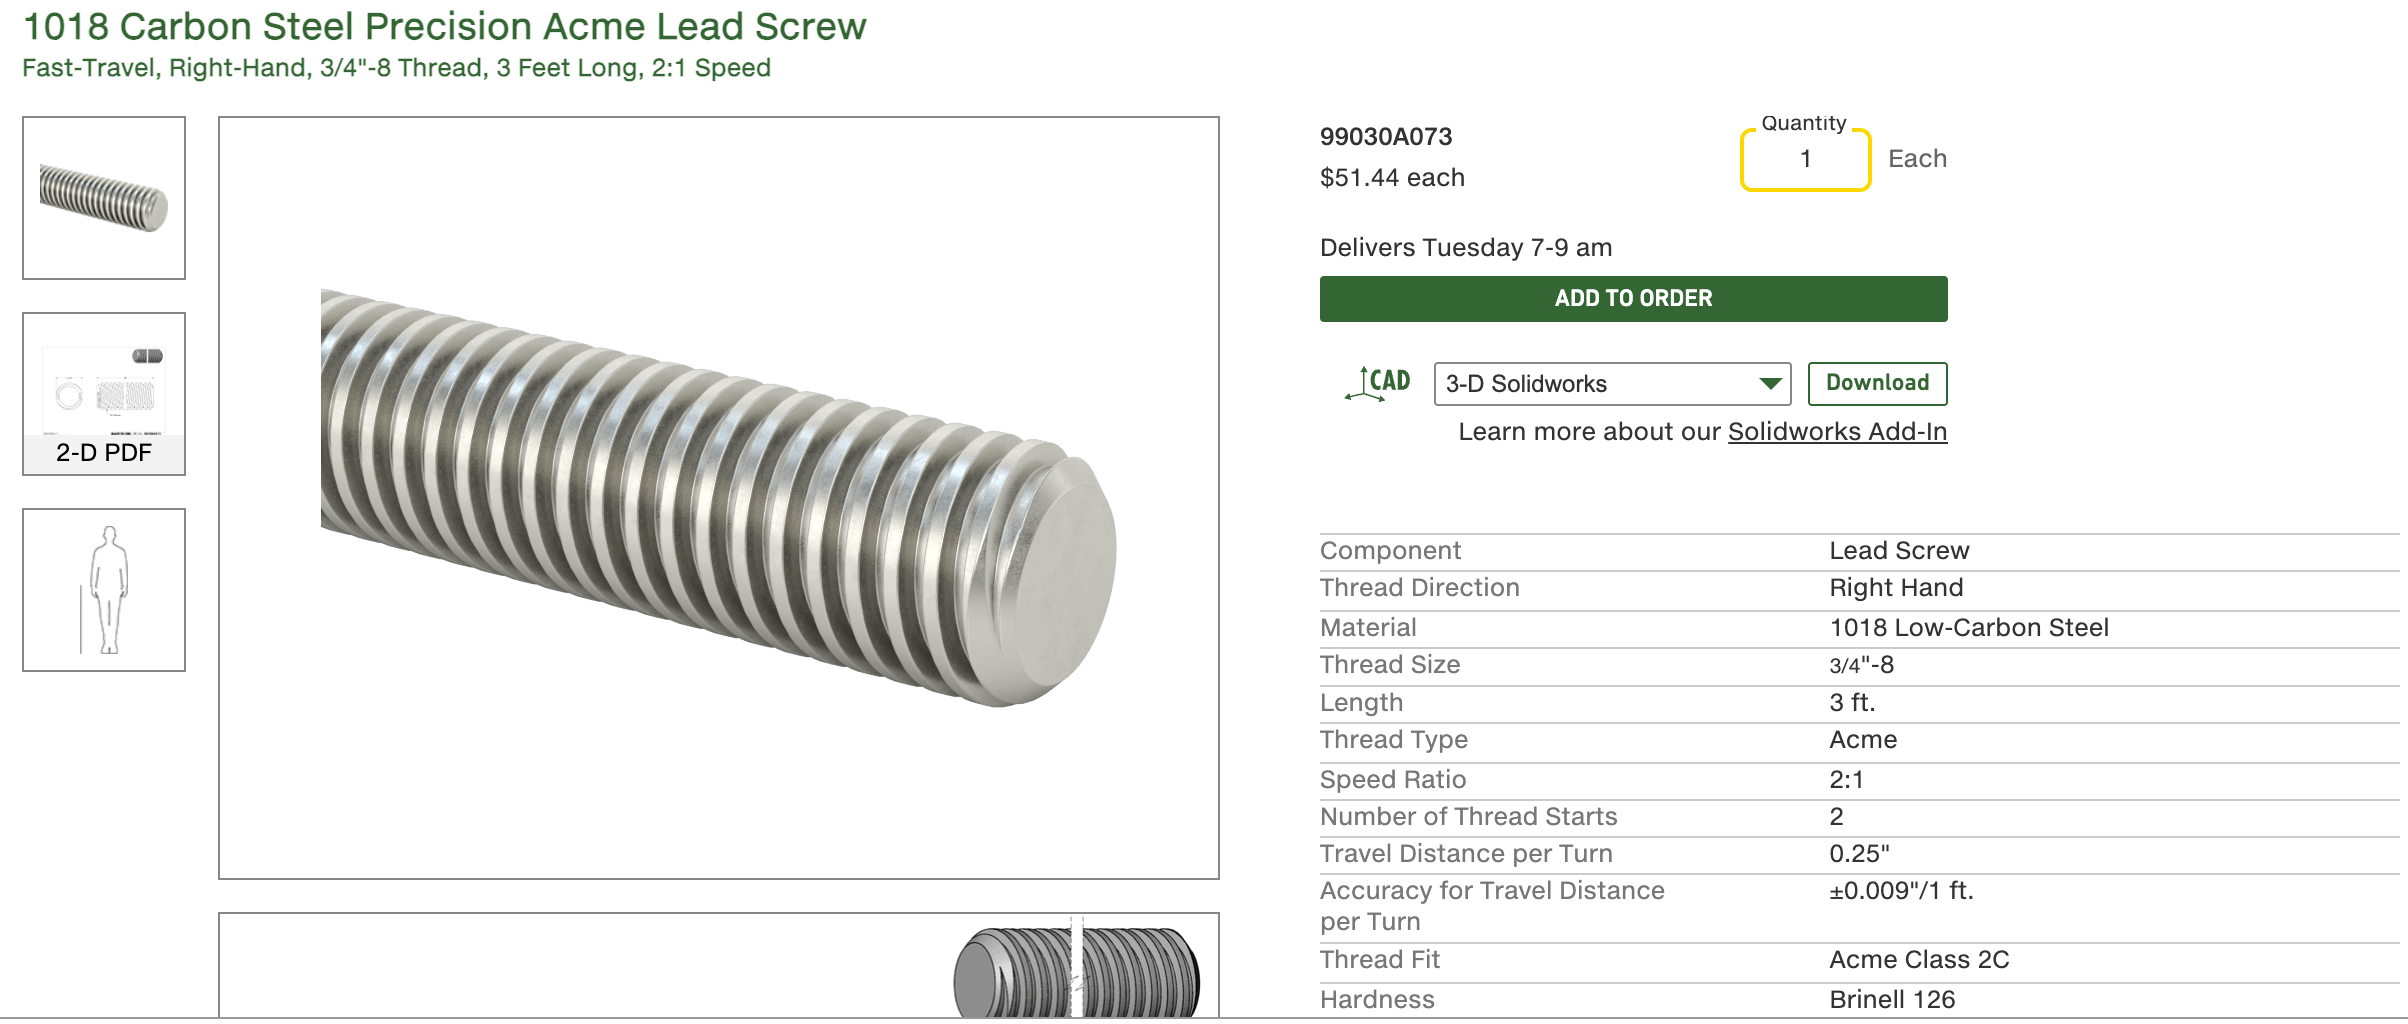
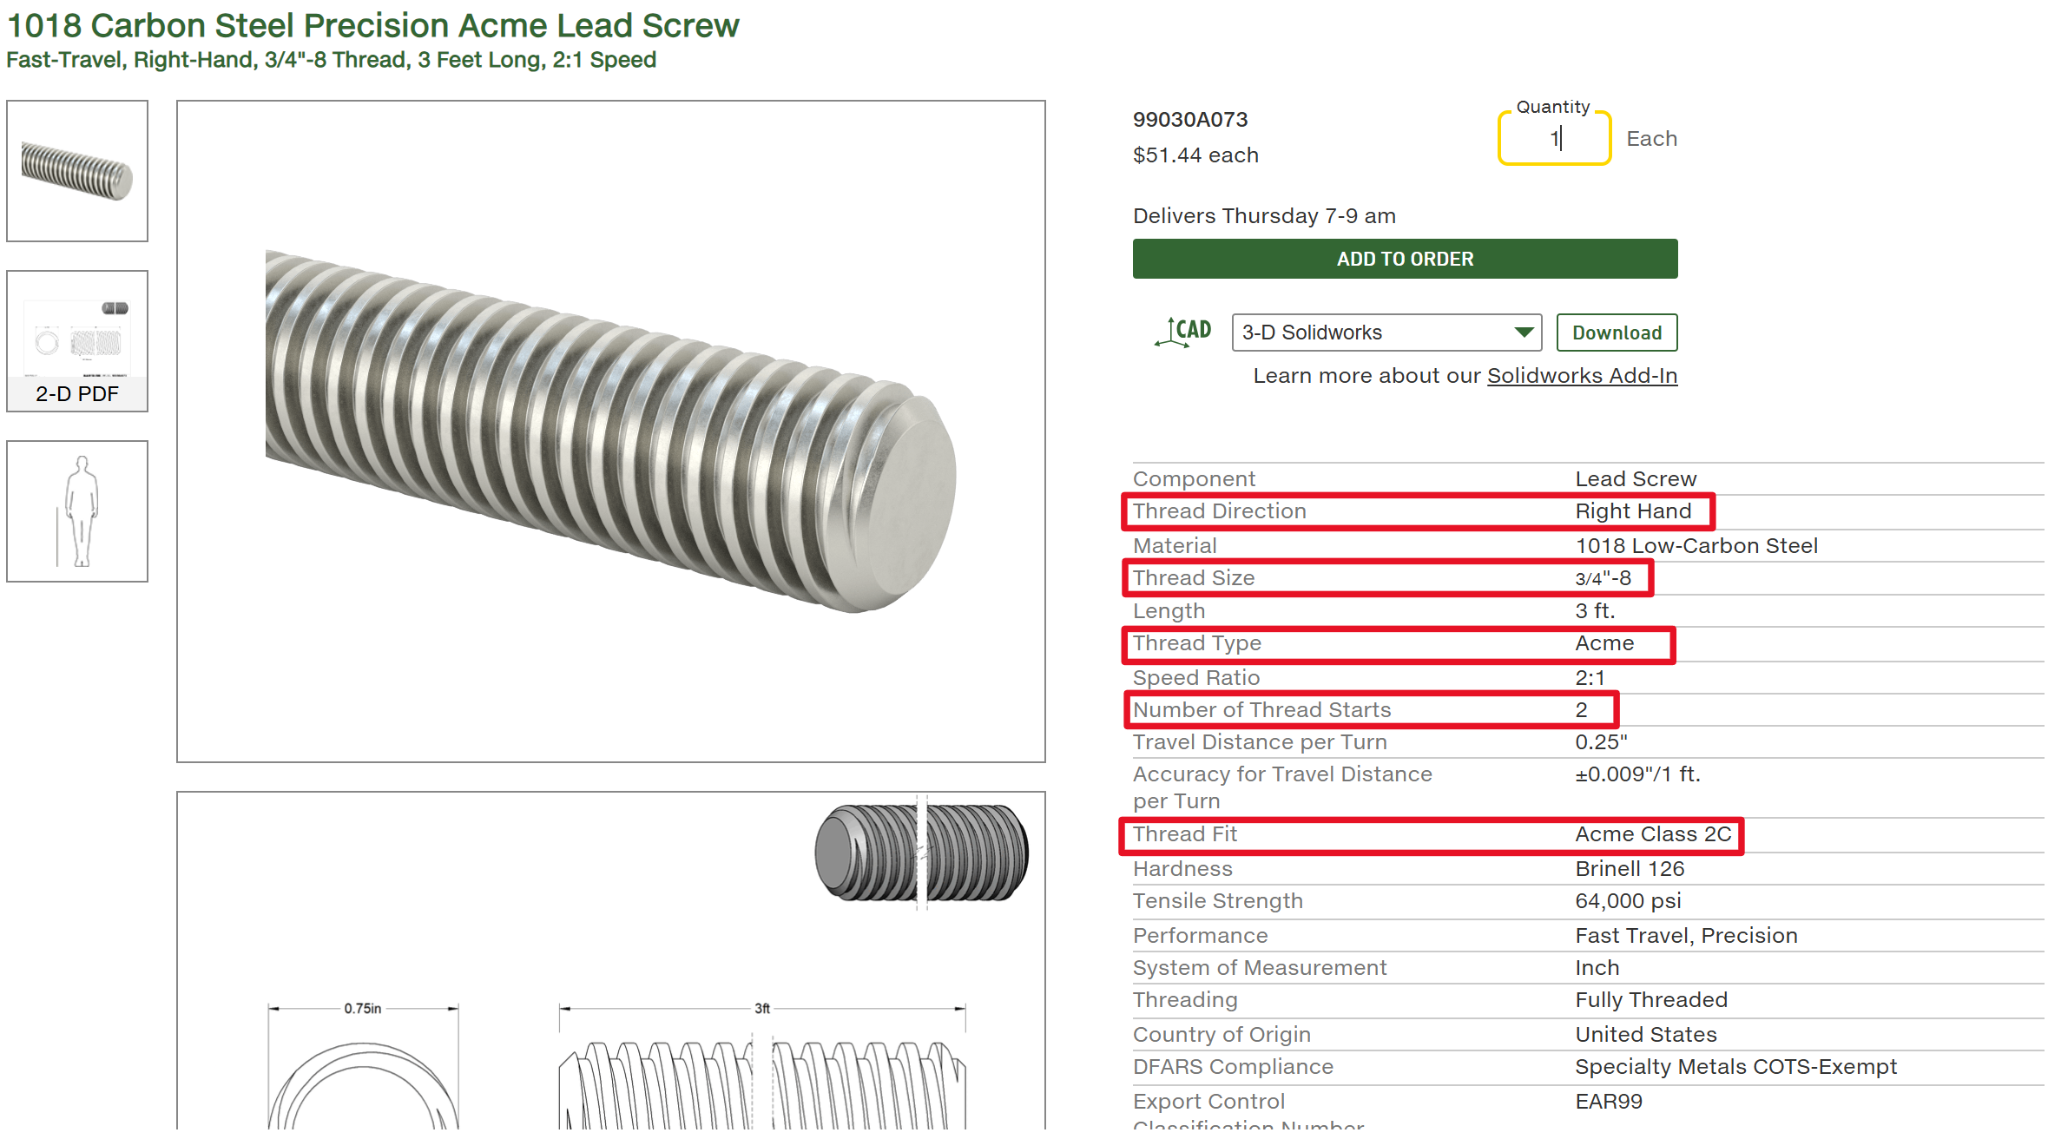
A10: add nut and flange section from Ethan's update
Thread bending check for the 673 bronze nut, both McMaster-Carr flange options, new highlighted screw screenshot. Flange choice, nut price and part number, and yield-strength source still pending from Ethan.

Claude-Session: https://claude.ai/code/session_01RhUpXb8sybQLC3sK57WEdz

diff --git a/docs/assignments/A10/index.html b/docs/assignments/A10/index.html
@@ -39,7 +39,7 @@ title: "A10 – Lead Screw Translating System"
     <tr><td>Leadscrew length</td><td>36 in (3 ft)</td><td>Chosen; the assignment minimum is 18 in</td></tr>
   </tbody>
 </table>
-<p>The 250 MPa yield strength sits between two published values for 1018 steel: 240 MPa for <a href="https://www.makeitfrom.com/material-properties/Hot-Rolled-1018-Carbon-Steel">hot rolled 1018 (MakeItFrom)</a> and 370 MPa for cold drawn 1018 in the <a href="https://www.mwcomponents.com/uploads/Resource-Center/Elgin-Material-Sheets/Carbon-Steel-Grade-1018-Data-Sheet_Elgin.pdf">Elgin data sheet</a>. That data sheet lists Brinell 126, the same hardness McMaster-Carr lists for the selected screw. The minimum diameter in section 1 would be 4.61 mm at 240 MPa, so the choice of value does not change the screw selection.</p>
+<p>The 250 MPa yield strength sits between two published values for 1018 steel: 240 MPa for <a href="https://www.makeitfrom.com/material-properties/Hot-Rolled-1018-Carbon-Steel">hot rolled 1018 (MakeItFrom)</a> and 370 MPa for cold drawn 1018 in the <a href="https://www.mwcomponents.com/uploads/Resource-Center/Elgin-Material-Sheets/Carbon-Steel-Grade-1018-Data-Sheet_Elgin.pdf">Elgin data sheet</a>. That data sheet lists Brinell 126, the same hardness McMaster-Carr lists for the selected screw, and McMaster-Carr also lists a tensile strength of 64,000 psi (441 MPa) for it, in line with the cold drawn value. The minimum diameter in section 1 would be 4.61 mm at 240 MPa, so the choice of value does not change the screw selection.</p>
 
 <h2>1. Minimum Leadscrew Diameter: Ethan King</h2>
 <p><strong>i. Knowns and unknowns.</strong> Knowns: F = 2 kN = 450 lb<sub>f</sub>, n = 4, S<sub>y</sub> = 250 MPa, two screws. Unknowns: load per screw F<sub>s</sub>, allowable stress &sigma;<sub>allow</sub>, minimum area A<sub>min</sub>, and minimum diameter d<sub>min</sub>.</p>
@@ -120,7 +120,7 @@ title: "A10 – Lead Screw Translating System"
     <tr><td>Material</td><td>1018 low-carbon steel, as assumed</td><td>1018 low-carbon steel, Brinell 126</td></tr>
   </tbody>
 </table>
-<img src="{{ '/assignments/A10/mcmaster-leadscrew-99030A073.png' | relative_url }}" alt="McMaster-Carr listing for lead screw 99030A073: 1018 carbon steel precision Acme, 3/4 inch-8 thread, 3 feet long, 2 thread starts, 0.25 inch travel per turn, $51.44 each">
+<img src="{{ '/assignments/A10/mcmaster-leadscrew-99030A073.png' | relative_url }}" alt="McMaster-Carr listing for lead screw 99030A073: 1018 carbon steel precision Acme, 3/4 inch-8 thread, 3 feet long, 2 thread starts, 0.25 inch travel per turn, Acme Class 2C, Brinell 126, tensile strength 64,000 psi, $51.44 each, with thread direction, size, type, starts, and fit highlighted">
 <p>McMaster-Carr lead screw 99030A073.</p>
 <p>The torque for this screw is worked out in the correction under section 3: 2.41 N&middot;m per screw.</p>
 
@@ -131,7 +131,65 @@ title: "A10 – Lead Screw Translating System"
 <p><strong>Fixed version.</strong> Minimum diameter: <strong>0.178 in (4.52 mm)</strong>. Maximum torque: <strong>2.41 N&middot;m = 1.78 lb<sub>f</sub>&middot;ft per screw</strong>.</p>
 
 <h2>5. Nut and Flange: Ethan King</h2>
-<!-- PENDING: Ethan's nut and flange selection and thread bending-stress check -->
+<p>This section checks that the internal threads of a bronze nut carry the load, using the thread bending stress analysis from lecture, and then picks a flange. Because this lead screw has a two-start Acme thread, McMaster-Carr sells exactly one nut that fits it, so the nut was not a choice. The nut is 673 bronze and threads into a separate flange through its external thread.</p>
+<table>
+  <thead>
+    <tr><th>Nut (McMaster-Carr)</th><th>Value</th></tr>
+  </thead>
+  <tbody>
+    <tr><td>Material</td><td>673 bronze</td></tr>
+    <tr><td>Internal thread</td><td>3/4 in&ndash;8 Acme, Class 2C, 2 starts, 0.25 in travel per turn, right hand</td></tr>
+    <tr><td>Length</td><td>1 1/4 in</td></tr>
+    <tr><td>Outside diameter</td><td>1.125 in</td></tr>
+    <tr><td>External thread (for the flange)</td><td>1 in&ndash;18, 1/2 in long</td></tr>
+  </tbody>
+</table>
+<img src="{{ '/assignments/A10/mcmaster-nut-and-flanges.png' | relative_url }}" alt="McMaster-Carr listing for fast-travel precision Acme lead screw nuts and flanges: the 673 bronze nut for 3/4 inch-8 thread, 1 1/4 inch long, 1.125 inch diameter, 1 inch-18 external thread, and two flanges, 1215 carbon steel part 95082A643 at $38.35 and 303 stainless steel part 1329K13 at $94.44, each 2 5/8 inch diameter, 17/32 inch thick, with a 2 3/32 inch bolt circle">
+<p>McMaster-Carr nut and flange listing for the 3/4 in&ndash;8 Acme screw. The highlighted text is the flange material comparison.</p>
+
+<h3>Thread Bending Stress in the Nut</h3>
+<p><strong>i. Knowns and unknowns.</strong> Knowns: load per screw F = 1 kN = 224.8 lb<sub>f</sub>, lead = 0.25 in with 2 starts, 8 threads per inch, nominal diameter D = 0.75 in, nut length L<sub>e</sub> = 1.25 in (fully screwed on), S<sub>y</sub> = 49,000 psi for 673 bronze, n = 4. Unknowns: pitch p, number of engaged threads n<sub>t</sub>, minimum minor diameter d<sub>min</sub>, allowable stress &sigma;<sub>max</sub>, and calculated bending stress &sigma;<sub>bend</sub>.</p>
+<p><strong>ii. Free body diagram.</strong> A section through the engaged threads, with the load acting on the thread flanks at the mean diameter d<sub>m</sub> and the thread thickness p/2 marked at the root (Ethan's sketch, below).</p>
+<p><strong>iii. Model and algebraic solution.</strong></p>
+<ul>
+  <li>Pitch: <strong>p = lead/2</strong> for two starts, checked with <strong>p = 1/TPI</strong>.</li>
+  <li>Engaged threads: <strong>n<sub>t</sub> = L<sub>e</sub>/p</strong>.</li>
+  <li>Minimum minor diameter of a Class 2C internal thread, from the Machinery's Handbook formula (formula 11): <strong>d<sub>min</sub> = D &minus; 0.9p</strong>.</li>
+  <li>Allowable stress: <strong>&sigma;<sub>max</sub> = S<sub>y</sub>/n</strong>.</li>
+  <li>Thread bending stress: <strong>&sigma;<sub>bend</sub> = 6F/(&pi;n<sub>t</sub>d<sub>min</sub>p)</strong>.</li>
+</ul>
+<p><strong>iv. Numerical solution.</strong></p>
+<table>
+  <thead>
+    <tr><th>Quantity</th><th>Calculation</th><th>Result</th></tr>
+  </thead>
+  <tbody>
+    <tr><td>p</td><td>0.25/2 = 1/8</td><td>0.125 in</td></tr>
+    <tr><td>n<sub>t</sub></td><td>1.25/0.125</td><td>10</td></tr>
+    <tr><td>d<sub>min</sub></td><td>0.75 &minus; 0.9(0.125)</td><td>0.6375 in</td></tr>
+    <tr><td>&sigma;<sub>max</sub></td><td>49,000/4</td><td>12,250 psi</td></tr>
+    <tr><td>&sigma;<sub>bend</sub></td><td>6(224.8)/(&pi;(10)(0.6375)(0.125))</td><td>538.8 psi</td></tr>
+    <tr><td>&sigma;<sub>bend</sub> with only one thread engaged</td><td>6(224.8)/(&pi;(1)(0.6375)(0.125))</td><td>5,388 psi (44% of &sigma;<sub>max</sub>)</td></tr>
+  </tbody>
+</table>
+<p><strong>v. Answer.</strong> &sigma;<sub>bend</sub> = 538.8 psi is far below the allowable 12,250 psi, so the nut is safe. Even if only one thread carried the whole load, the stress would be 5,388 psi, still under half of the allowable stress with the safety factor of 4 applied.</p>
+<img src="{{ '/assignments/A10/handcalc-4-nut-bending.png' | relative_url }}" alt="Handwritten knowns and unknowns, free body diagram of the nut and screw threads, symbolic and algebraic work: pitch 0.125 inches, 10 engaged threads, minimum minor diameter 0.6375 inches, allowable stress 12,250 psi, bending stress 538.8 psi, safe even with one thread engaged">
+<p>Ethan's knowns and unknowns, free body diagram, and calculations for the thread bending stress of the nut.</p>
+<p><strong>Check of these numbers.</strong> The arithmetic is correct. Two notes: (1) d<sub>min</sub> is the smallest diameter of the nut's threads, so it makes the stress slightly higher than a root diameter would, which is conservative. (2) The 49,000 psi yield strength is the one input I could not trace to a published source. Published C67300 manganese bronze values are lower, 40 ksi up to 1 in and 35 ksi from 1 to 3 in, according to <a href="https://concast.com/c67300.php">Concast</a> and <a href="https://nationalbronze.com/C67300_SAEJ463_Manganese_Bronze.php">National Bronze</a>. The conclusion does not change: at 35 ksi the allowable stress is 8,750 psi, still above the 5,388 psi one-thread case.</p>
+
+<h3>Flange</h3>
+<p>The flange threads onto the nut's 1 in&ndash;18 external thread. McMaster-Carr offers two flanges for it with the same dimensions. They differ in material and price.</p>
+<table>
+  <thead>
+    <tr><th>Flange</th><th>Part number</th><th>Price</th><th>Flange diameter</th><th>Thickness</th><th>Bolt circle diameter</th><th>Hardness</th><th>Note</th></tr>
+  </thead>
+  <tbody>
+    <tr><td>1215 carbon steel</td><td><a href="https://www.mcmaster.com/95082A643/">95082A643</a></td><td>$38.35</td><td>2 5/8 in</td><td>17/32 in</td><td>2 3/32 in</td><td>Not rated</td><td>Good machinability; rusts when exposed to moisture</td></tr>
+    <tr><td>303 stainless steel</td><td><a href="https://www.mcmaster.com/1329K13/">1329K13</a></td><td>$94.44</td><td>2 5/8 in</td><td>17/32 in</td><td>2 3/32 in</td><td>Brinell 140</td><td>Good corrosion resistance; 2.5 times the price</td></tr>
+  </tbody>
+</table>
+<p>Both flanges are 2.625 in across, so the crosshead has to be at least that wide at the nut, and the bolt circle of 2.094 in sets where the mounting holes go.</p>
+<!-- PENDING from Ethan: (1) which flange is selected and why; (2) nut part number and price; (3) flange bolt hole count and diameter; (4) source for the 49,000 psi yield strength -->
 
 <h2>6. Crosshead: Juan</h2>
 <!-- PENDING: strength analysis, deflection analysis (0.1 mm limit), multiview sketch -->
